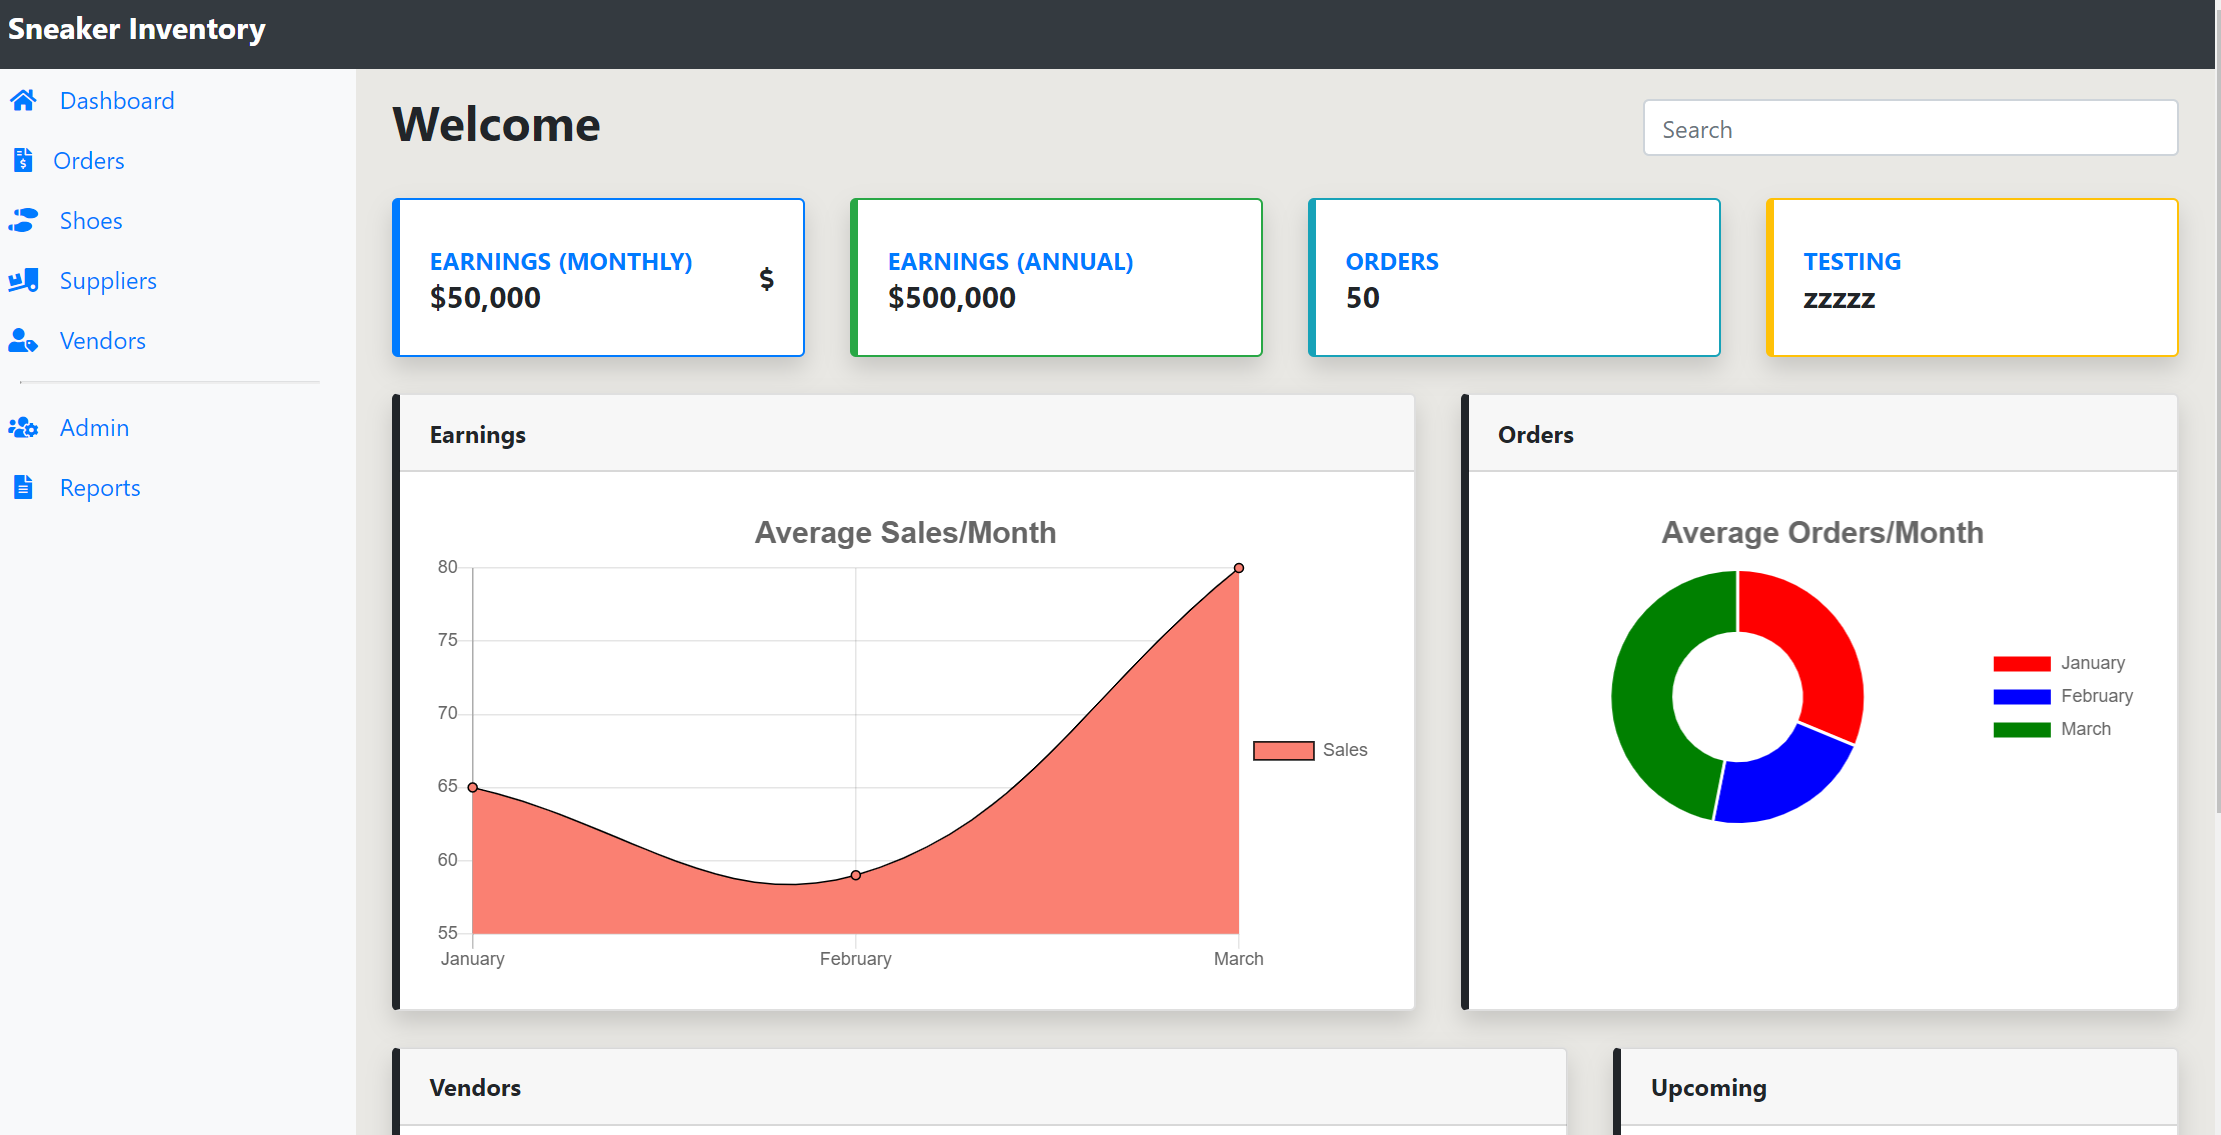
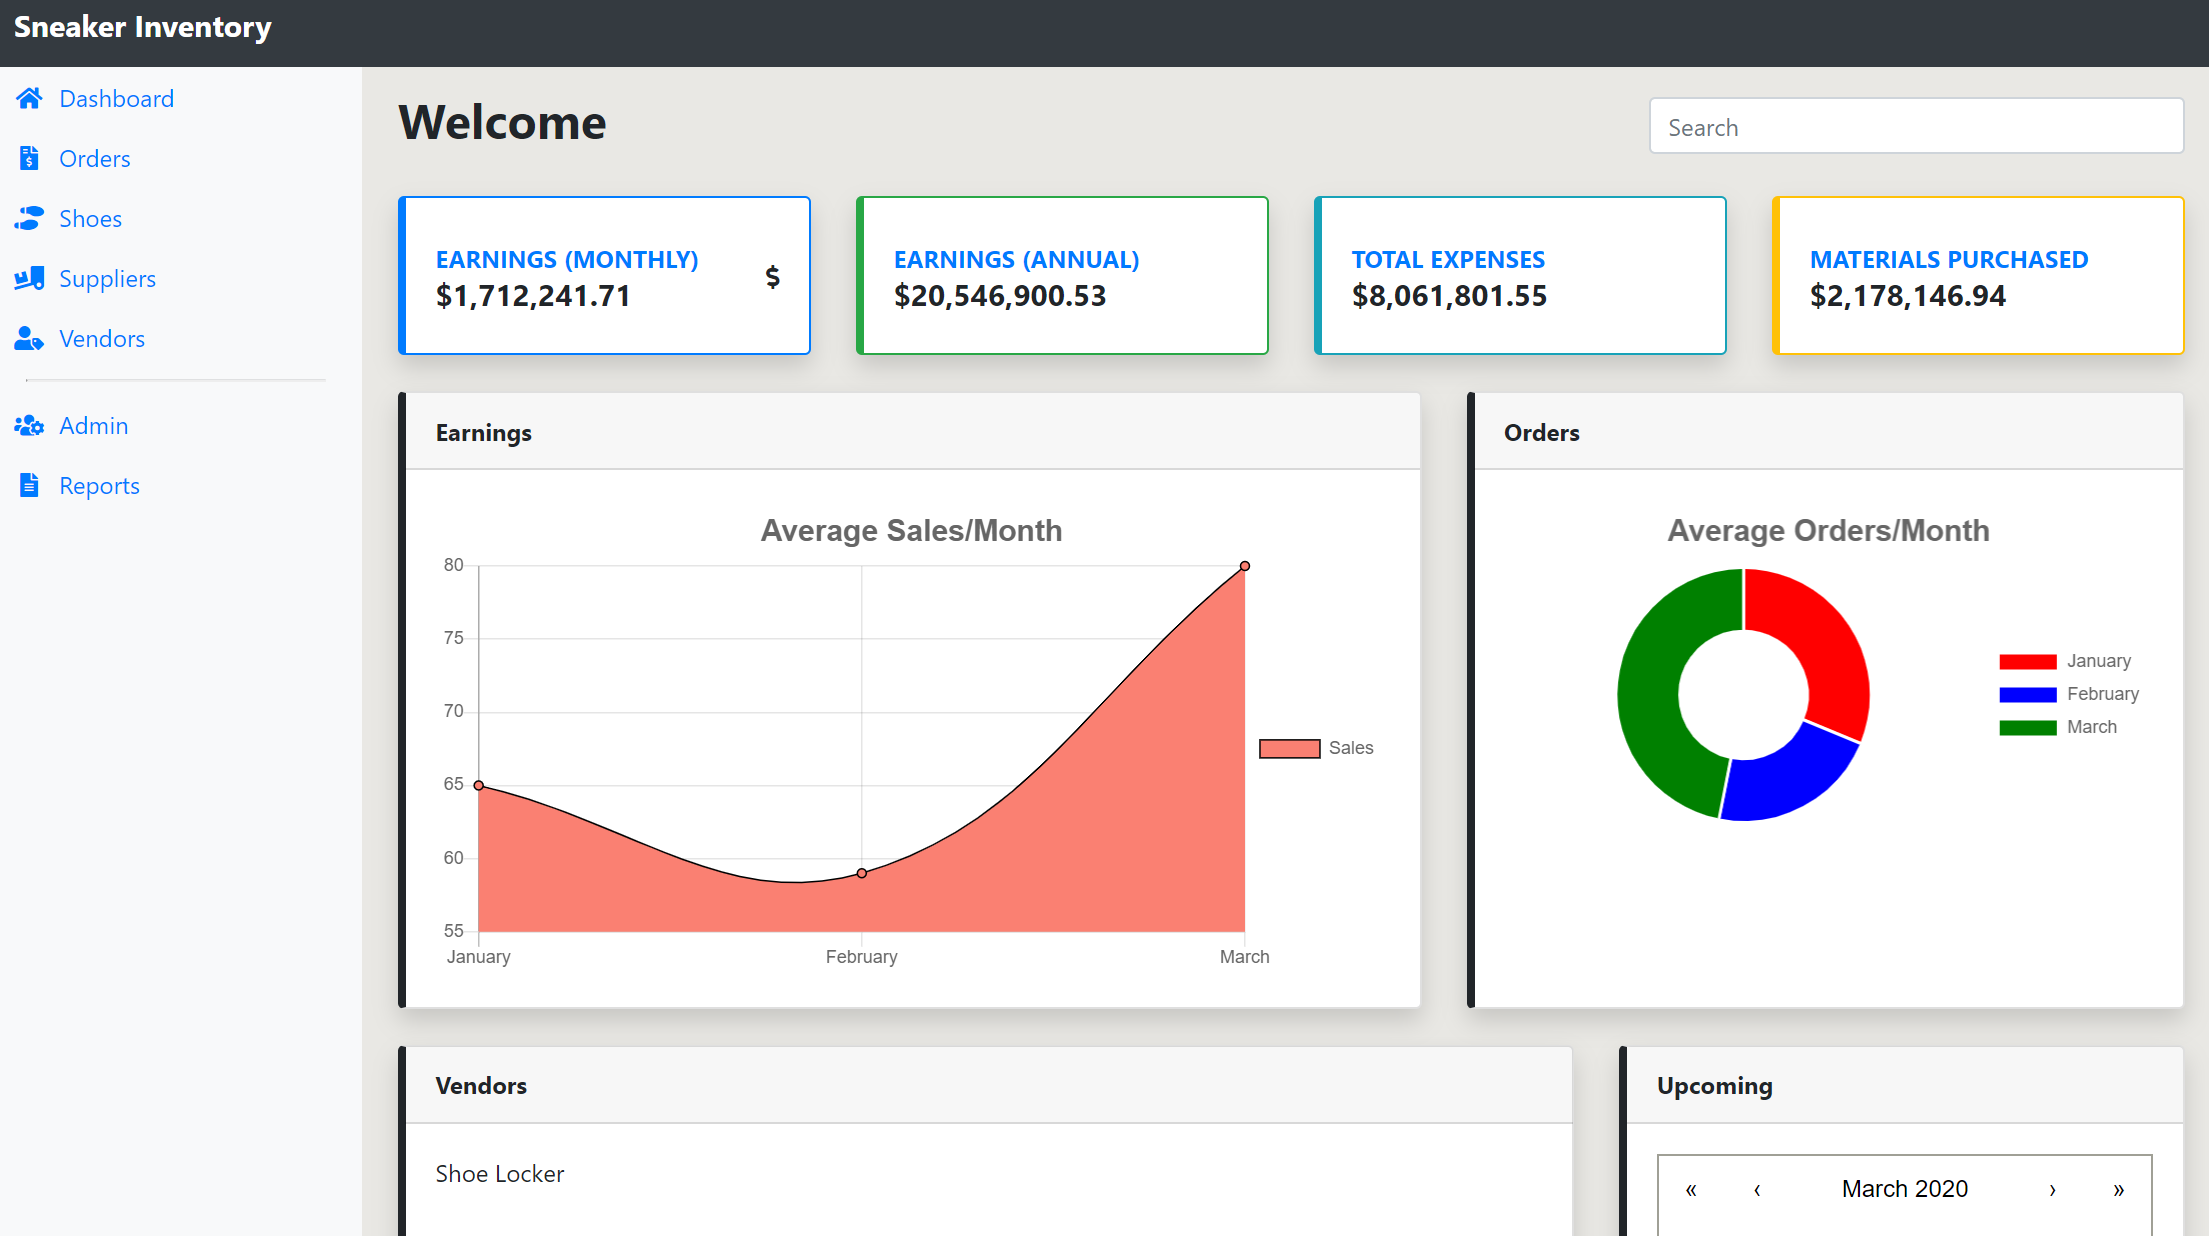
update pics

diff --git a/src/components/Shoes.js b/src/components/Shoes.js
@@ -21,11 +21,21 @@ function createData(sku, style, name, inventory, inventorySold, retailPrice, cos
 
 // placeholder Shoes data
 const rows = [
-  createData(`Frozen yoghurt`, 159, 6.0, 24, 4.0),
-  createData(`Ice cream sandwich`, 237, 9.0, 37, 4.3),
-  createData(`Eclair`, 262, 16.0, 24, 6.0),
-  createData(`Cupcake`, 305, 3.7, 67, 4.3),
-  createData(`Gingerbread`, 356, 16.0, 49, 3.9)
+  createData("BB0001", "basketball", "dunk force", 1263, 1454, 129.99, 47.67),
+  createData("BB0002", "basketball", "hyper air", 263, 4552, 169.99, 77.46),
+  createData("BB0003", "basketball", "ultra max hi", 11233, 22312, 159.99, 64.68),
+  createData("BB0004", "basketball", "ultra max lo", 15246, 21231, 109.99, 42.41),
+  createData("BB0005", "basketball", "dunk force 2", 1263, 3212, 129.99, 47.67),
+  createData("BB0006", "basketball", "maxx force", 1263, 1123, 129.99, 47.67),
+  createData("RU0004", "running shoe", "trex", 2234, 2110, 209.99, 97.99),
+  createData("RU0001", "running shoe", "classic", 14263, 42346, 119.99, 42.93),
+  createData("RU0008", "running shoe", "SXX 450", 23450, 34286, 129.99, 47.89),
+  createData("BO0011", "boot", "steel toe", 763, 1234, 229.99, 97.99),
+  createData("BO0006", "boot", "cowboy", 263, 543, 189.99, 99.67),
+  createData("SL0004", "slipper", "slip on", 1263, 3452, 49.99, 19.27),
+  createData("SL0001", "slipper", "sheepskin", 1263, 2765, 49.99, 19.27),
+  createData("DR0004", "dress shoe", "oxford", 723, 826, 169.99, 87.60),
+  createData("DR0008", "dress shoe", "derby", 846, 967, 189.99, 102.65)
 ];
 
 export default function Shoes() {
@@ -42,7 +52,7 @@ export default function Shoes() {
             <Table className={classes.table} aria-label='simple table'>
               <TableHead>
                 <TableRow>
-                  <TableCell className='font-weight-bold'>SKU</TableCell>
+                  <TableCell className='font-weight-bold'>sku</TableCell>
                   <TableCell className='font-weight-bold' align='right'>
                     Style
                   </TableCell>
@@ -67,14 +77,16 @@ export default function Shoes() {
                 {rows.map(row =>
                   <TableRow key={row.name}>
                     <TableCell component='th' scope='row'>
-                      {row.name}
+                      {row.sku}
                     </TableCell>
-                    <TableCell align='right'>{row.contact}</TableCell>
-                    <TableCell align='right'>{row.address}</TableCell>
+                    <TableCell align='right'>{row.style}</TableCell>
+                    <TableCell align='right'>{row.name}</TableCell>
                     <TableCell align='right'>
-                      {row.inventoryPurchased}
+                      {row.inventory}
                     </TableCell>
-                    <TableCell align='right'>{row.contractEnd}</TableCell>
+                    <TableCell align='right'>{row.inventorySold}</TableCell>
+                    <TableCell align='right'>{row.retailPrice}</TableCell>
+                    <TableCell align='right'>{row.cost}</TableCell>
                   </TableRow>
                 )}
               </TableBody>

diff --git a/src/components/Home.js b/src/components/Home.js
@@ -55,7 +55,7 @@ export default function Home(props) {
                     Earnings (Monthly)
                   </div>
                   <div className='h5 mb-0 font-weight-bold text-gray-800'>
-                    $50,000
+                    $1,712,241.71
                   </div>
                 </div>
                 <div className='col-auto'>
@@ -75,7 +75,7 @@ export default function Home(props) {
                     Earnings (Annual)
                   </div>
                   <div className='h5 mb-0 font-weight-bold text-gray-800'>
-                    $500,000
+                    $20,546,900.53
                   </div>
                 </div>
               </div>
@@ -89,10 +89,10 @@ export default function Home(props) {
               <div className='row no-gutters align-items-center'>
                 <div className='col mr-2'>
                   <div className='text-xs font-weight-bold text-primary text-uppercase -mb-1'>
-                    Orders
+                    Total Expenses
                   </div>
                   <div className='h5 mb-0 font-weight-bold text-gray-800'>
-                    50
+                  $8,061,801.55
                   </div>
                 </div>
               </div>
@@ -106,10 +106,10 @@ export default function Home(props) {
               <div className='row no-gutters align-items-center'>
                 <div className='col mr-2'>
                   <div className='text-xs font-weight-bold text-primary text-uppercase -mb-1'>
-                    Testing
+                    Materials Purchased
                   </div>
                   <div className='h5 mb-0 font-weight-bold text-gray-800'>
-                    zzzzz
+                  $2,178,146.94
                   </div>
                 </div>
               </div>
@@ -171,7 +171,9 @@ export default function Home(props) {
             <div className='card-header py-3 d-flex flex-row align-items-center justify-content-between'>
               <h6 className='m-0 font-weight-bold'>Vendors</h6>
             </div>
-            <div className='card-body'>asdfasdf</div>
+            <div className='card-body'>Shoe Locker</div>
+            <div className='card-body'>The Running Store</div>
+            <div className='card-body'>Big Sports</div>
           </div>
         </div>
 
@@ -183,7 +185,7 @@ export default function Home(props) {
             <div className='card-body'>
               <Calendar />
               <div className='pt-3'>
-                <span>placeholder, interactive calendar</span>
+                <span>Upcoming Events</span>
               </div>
             </div>
           </div>

diff --git a/src/components/Suppliers.js b/src/components/Suppliers.js
@@ -15,17 +15,14 @@ const useStyles = makeStyles({
   }
 });
 
-function createData(sku, style, name, inventory, inventorySold, retailPrice, cost) {
-  return { sku, style, name, inventory, inventorySold, retailPrice, cost };
+function createData(name, supplies, contact, address, suppliesPurchased, unitCost) {
+  return { name, supplies, contact, address, suppliesPurchased, unitCost };
 }
 
 // placeholder suppliers data
 const rows = [
-  createData(`Frozen yoghurt`, 159, 6.0, 24, 4.0),
-  createData(`Ice cream sandwich`, 237, 9.0, 37, 4.3),
-  createData(`Eclair`, 262, 16.0, 24, 6.0),
-  createData(`Cupcake`, 305, 3.7, 67, 4.3),
-  createData(`Gingerbread`, 356, 16.0, 49, 3.9)
+  createData("CA leather", "leather", "818-723-3122", "774 South St. Los Angeles, CA 9008", 33978, 29.99),
+  createData("LXC rubber and composites", "soles", "206-421-1456", "832 4st St. Seattle, WA 98108", 77328, 14.99),
 ];
 
 export default function Suppliers() {
@@ -69,12 +66,13 @@ export default function Suppliers() {
                     <TableCell component='th' scope='row'>
                       {row.name}
                     </TableCell>
+                    <TableCell align='right'>{row.supplies}</TableCell>
                     <TableCell align='right'>{row.contact}</TableCell>
-                    <TableCell align='right'>{row.address}</TableCell>
                     <TableCell align='right'>
-                      {row.inventoryPurchased}
+                      {row.address}
                     </TableCell>
-                    <TableCell align='right'>{row.contractEnd}</TableCell>
+                    <TableCell align='right'>{row.suppliesPurchased}</TableCell>
+                    <TableCell align='right'>{row.unitCost}</TableCell>
                   </TableRow>
                 )}
               </TableBody>

diff --git a/src/components/Vendors.js b/src/components/Vendors.js
@@ -20,11 +20,9 @@ function createData(name, contact, address, inventoryPurchased, contractEnd) {
 }
 
 const rows = [
-  createData(`Frozen yoghurt`, 159, 6.0, 24, 4.0),
-  createData(`Ice cream sandwich`, 237, 9.0, 37, 4.3),
-  createData(`Eclair`, 262, 16.0, 24, 6.0),
-  createData(`Cupcake`, 305, 3.7, 67, 4.3),
-  createData(`Gingerbread`, 356, 16.0, 49, 3.9)
+  createData(`big sports`, `818-979-3482`, `Front St. Los Angeles, CA 9008`, 3978, `01-01-2024`),
+  createData(`the running store`, `206-278-1893`,`278 1st St. Seattle, WA 98108`, 4759, `06-31-2022`),
+  createData(`shoe locker`, `818-345-7821`, `398 South St. Los Angeles CA 9008`, 3673, `01-01-2022`),
 ];
 
 export default function Vendors() {

diff --git a/README.md b/README.md
@@ -14,8 +14,6 @@
 
 ## Info
 The JLR Shoes CRM is a used for the JLR Shoe company to track inventory, supplier info, and vendor info. It gives JLR Shoe company an advantage over the competition by having the most important company information accurately displayed in one place  
-![Login](https://github.com/resousa/project-2/blob/dev/src/assets/images/login.PNG?raw=true)   
-Screenshot of the JLR Shoes login screen.
 
 ![Dashboard](https://github.com/resousa/project-2/blob/dev/src/assets/images/dashboard.PNG?raw=true)  
 Screenshot of the JLR Shoes dashboard.
